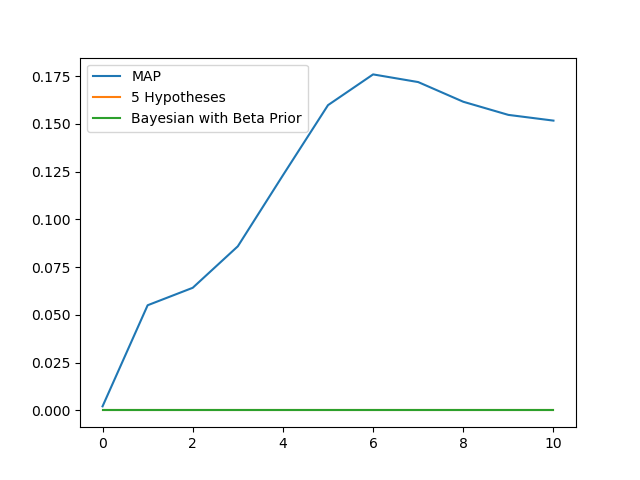
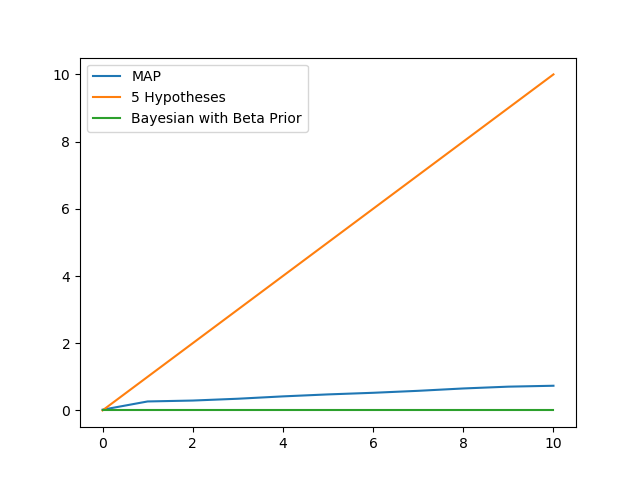
bayesian work

diff --git a/logisticRegression.py b/logisticRegression.py
@@ -70,9 +70,8 @@ class LogisticRegression:
             # make use of self.loss_grad() function
 
             res = self.loss_grad(self.w, X, Y)
-            loss = self.loss(self.w, X, Y)
 
-            self.w = self.w + step * res
+            self.w = self.w - step * res
 
             if t % 100 == 0:
                 plot_boundary(self.w)
@@ -83,8 +82,6 @@ class LogisticRegression:
         :param X: inputs, shape:(N,3)
         :return: predictions, shape:(N,)
         """
-        y = np.ones(X.shape[0])
-
         # this is not what IAN said online he said (w.T, X)
         y = np.dot(self.w, X.T)
 
@@ -102,13 +99,13 @@ class LogisticRegression:
 
         # calculate the loss
         for x in range(X.shape[0]):
-            z = np.dot(w.T, X[x,])
+            z = np.dot(w, X[x,].T)
             sigmoid = (1)/(1+ np.e**(-z))
             # print(sigmoid)
-            loss += -y[x]*np.log10(sigmoid) - (1-y[x])*np.log10(1-sigmoid)
+            loss += (-y[x]*np.log10(sigmoid) - (1-y[x])*np.log10(1-sigmoid))
 
-        loss = (1/N) * loss
-
+        loss = loss/N
+        print(loss)
         return loss
 
     def loss_grad(self, w, X, y):
@@ -125,11 +122,11 @@ class LogisticRegression:
         gradient = 0
 
         Z = np.dot(w, X.T)
-        # print(np.e**(-Z))
 
-        sigmoid = 1/(1+(np.e)**(-1*Z))
+        sigmoid = 1/(1+np.power((np.e),-Z))
         diff = sigmoid - y
         res = np.dot(diff.T, X)
+        # print(res)
         return res
 
 
@@ -170,5 +167,6 @@ if __name__ == '__main__':
     plt.legend()
     plt.axis('square')
     plt.axis([0, 1, 0, 1])
+    # plt.axis([-10, 10, -10, 10])
     plt.savefig('figures/Q2.png')
     plt.close()

diff --git a/bayesian.py b/bayesian.py
@@ -60,18 +60,22 @@ class Posterior:
             sum_cherry = 0
             for i in range(5):
                 local_sum_lime = lime_probs[i]*hypo_probs[i]
-                local_sum_cherry = (1-lime_probs[i]*hypo_probs[i])
+                local_sum_cherry = (1-lime_probs[i])*hypo_probs[i]
                 # iterate over all the samples
                 product = 1
                 for j in range(self.N):
+                    print(lime)
                     if (j < self.limes[lime]):
-                        # print(str(j) + " is less than " + str(lime) )
                         product = product * lime_probs[i]
                     else:
                         product = product * (1- lime_probs[i])
                 sum_lime += local_sum_lime * product
                 sum_cherry += local_sum_cherry * product
             final_sum = (sum_lime/(sum_lime+sum_cherry))
+            print("sum of limes is: " + str(sum_lime))
+            print("sum of cherries is: " + str(sum_cherry))
+            print("final sum: " + str(final_sum))
+            print("cherry sum: " + str((sum_cherry)/(sum_lime + sum_cherry)))
             lime_list[lime] = final_sum
 
             print(lime_list[lime])
@@ -84,7 +88,10 @@ class Posterior:
         """
         # WRITE the required CODE HERE and return the computed values
 
-        return np.zeros(self.N)
+        lime_probs = [0, .25, .50, .75, 1.0]
+        hypo_probs = [.1, .2, .4, .2, .1]
+        fake = [0, 1, 2, 3, 4, 5, 6, 7, 8, 9, 10]
+        return fake
 
     def get_infinite(self):
         """
